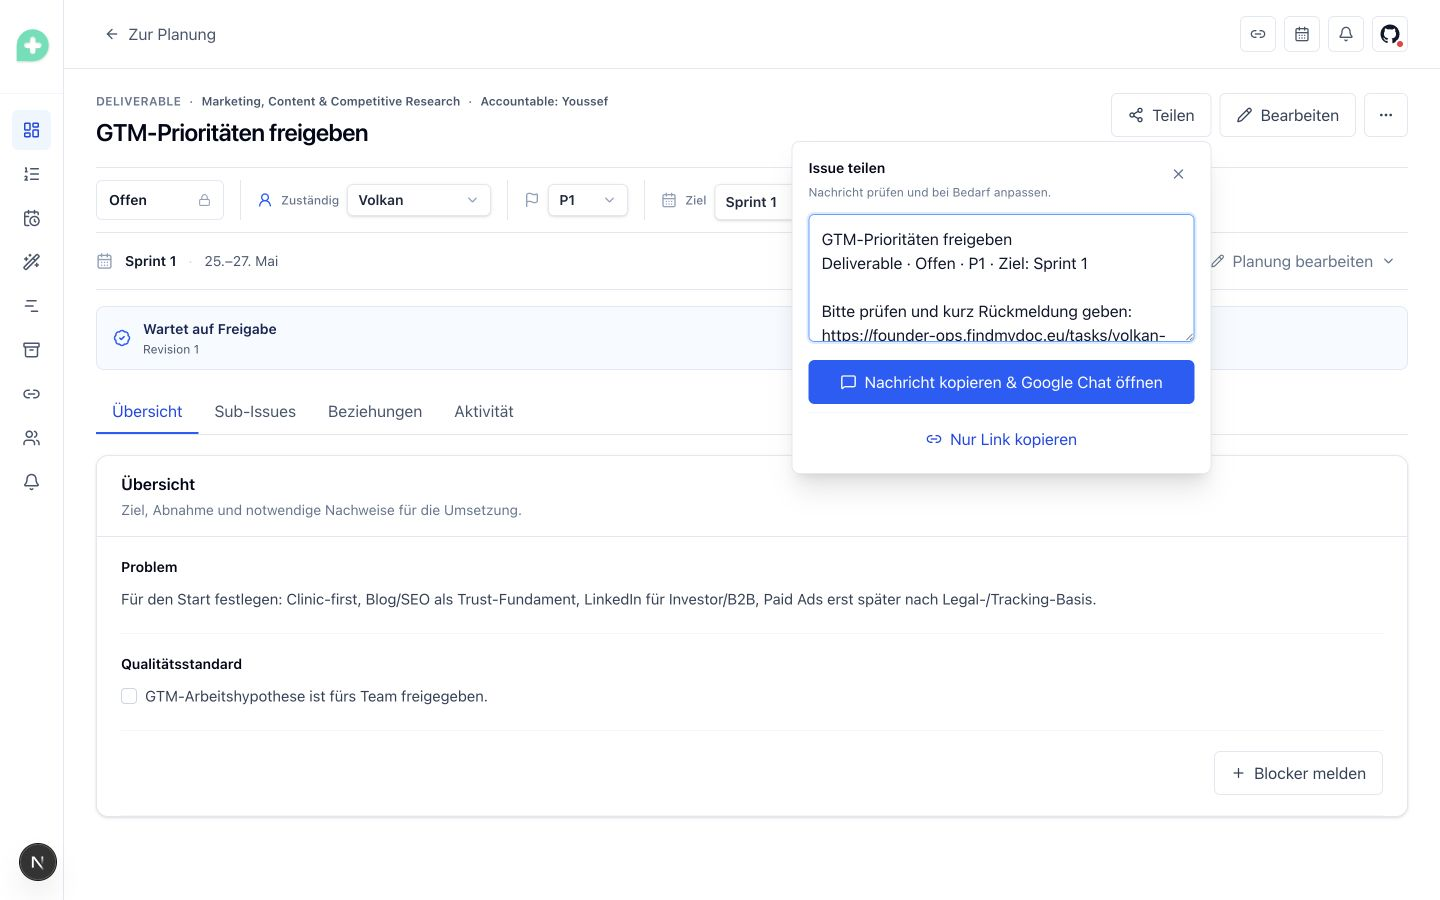
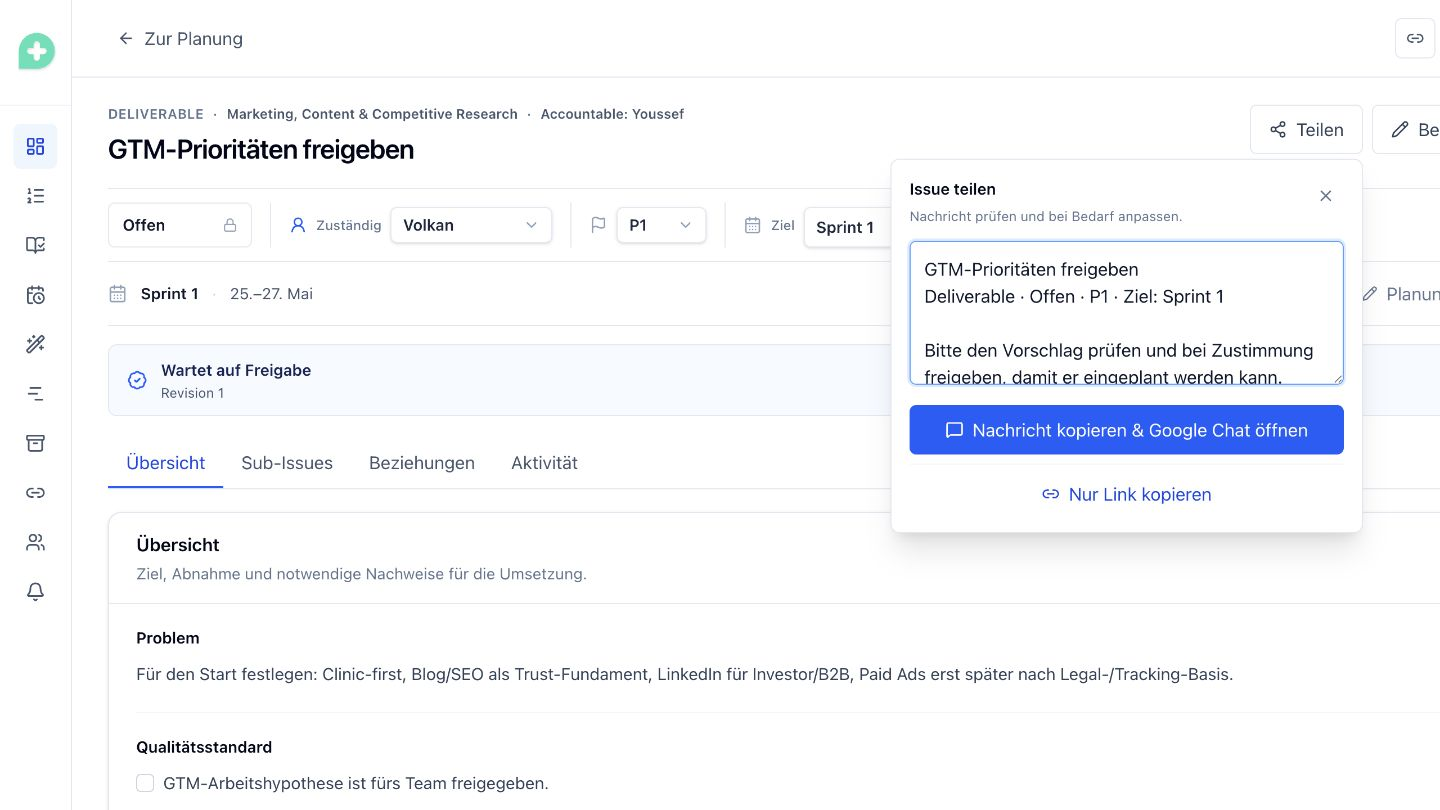
feat: tailor share messages to task state

diff --git a/src/features/tasks/model/task-share-message.ts b/src/features/tasks/model/task-share-message.ts
@@ -22,7 +22,17 @@ export function buildTaskShareUrl(taskId: string, origin: string) {
   return new URL(`/tasks/${encodeURIComponent(taskId)}`, origin).toString();
 }
 
-export function buildTaskShareMessage(task: Pick<Task, "deadline" | "priority" | "status" | "taskType" | "title">, taskUrl: string) {
+export function taskShareRequestLabel(task: Pick<Task, "approvalStatus" | "reviewStatus" | "status" | "taskType">) {
+  if (task.reviewStatus === "requested" || task.status === "Review") {
+    return "Bitte prüfen und den Review freigeben.";
+  }
+  if (task.taskType === "deliverable" && (task.approvalStatus === "proposed" || !task.approvalStatus)) {
+    return "Bitte den Vorschlag prüfen und bei Zustimmung freigeben, damit er eingeplant werden kann.";
+  }
+  return "Bitte ansehen und bei Bedarf kurz Rückmeldung geben.";
+}
+
+export function buildTaskShareMessage(task: Pick<Task, "approvalStatus" | "deadline" | "priority" | "reviewStatus" | "status" | "taskType" | "title">, taskUrl: string) {
   const metadata = [
     taskShareTypeLabel(task.taskType),
     task.status,
@@ -34,7 +44,7 @@ export function buildTaskShareMessage(task: Pick<Task, "deadline" | "priority" |
     task.title,
     metadata,
     "",
-    "Bitte prüfen und kurz Rückmeldung geben:",
+    taskShareRequestLabel(task),
     taskUrl,
   ].join("\n");
 }

diff --git a/src/features/product-tours/model/feature-tour-registry.ts b/src/features/product-tours/model/feature-tour-registry.ts
@@ -73,7 +73,7 @@ export const featureTours = [
         element: "[data-tour-id='task-share-trigger']",
         popover: {
           title: "Issue teilen",
-          description: "Hier bereitest du für jedes Deliverable und Sub-Issue eine Nachricht vor.",
+          description: "Hier bereitest du für jedes Deliverable und Sub-Issue eine Nachricht vor. Der Text greift Vorschlag, Review oder allgemeinen Abstimmungsbedarf auf.",
           side: "bottom",
           align: "end",
         },

diff --git a/design-qa.md b/design-qa.md
@@ -112,7 +112,7 @@ final result: passed
 
 - Source visual truth: `/Users/razorspoint/.codex/generated_images/019f8492-cc27-77b2-bb5a-4098ef686887/exec-781d3d1a-b68f-4e2d-973f-fc99ee38b045.png`
 - Implementation screenshot: `/Users/razorspoint/.codex/worktrees/4af6/founder-scoreboard/public/product-updates/2026-07-21-issue-sharing/share-issue.png`
-- Desktop viewport: 1440 x 900
+- Desktop viewport: 1440 x 810
 - Mobile viewport checked live: 390 x 844
 - Captured state: task detail open with the share popover open and an editable suggested message.
 
@@ -126,7 +126,7 @@ The source and implementation screenshots were reviewed together at full-view sc
 - Spacing and layout: The popover aligns to the header action on desktop and remains inside the viewport on mobile. Passed.
 - Colors and tokens: Uses the existing surface, border, muted, primary, and destructive tokens. Passed.
 - Image quality and assets: The product-update screenshot is a native 1440 x 900 capture without upscaling or placeholder assets. Passed.
-- Copy and content: The suggested German message contains issue type, title, status, priority, deadline when available, and a deep link; the text stays editable. Passed.
+- Copy and content: The suggested German message contains issue type, title, status, priority, deadline when available, a state-aware request, and a deep link; the text stays editable. Passed.
 
 ## Interaction QA
 
@@ -144,6 +144,7 @@ The source and implementation screenshots were reviewed together at full-view sc
 2. Pass 1 found a content bug where a non-ISO deadline label such as `Sprint 1` was interpreted as a calendar date. Fixed by formatting only ISO date values.
 3. Pass 1 found the guided tour could restart while preparing the task state. Fixed by keeping task-panel inputs in stable refs during the tour run.
 4. Post-fix desktop and mobile checks passed, including the copy states and the complete guided-tour path.
+5. The request sentence now distinguishes an open proposal, an active review, and all other task states. The updated product screenshot verifies the proposal wording; focused tests cover all three branches and review precedence.
 
 ## Final result
 